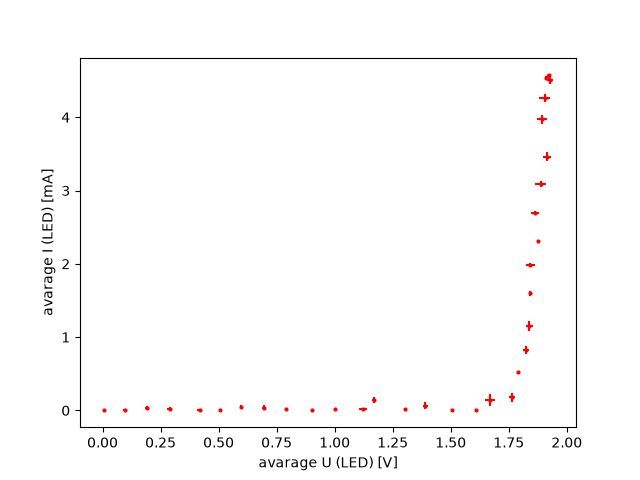
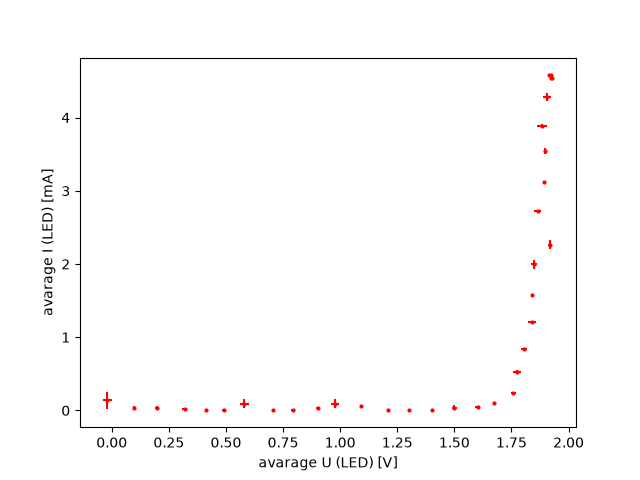
Updated version after feedback (09.11)(13:44)

diff --git a/diode_experiment_4.py b/diode_experiment_4.py
@@ -1,46 +1,23 @@
-
 import math
+
+import numpy as np
 
 from arduino_device import ArduinoVISADevice
 
 
-class DiodeExperiment: 
+class DiodeExperiment:
     def __init__(self):
         self.device = ArduinoVISADevice(port="ASRL/dev/cu.usbmodem14101::INSTR")
 
-    def statistics(self, list):
-        N = len(list)
-        x_oud = 0
-
-        for x in list:
-            total = x + x_oud
-            x_oud = total
-
-        mean_x = total / N
-
-        _oud = 0
-        # numpy std
-        for y in list:
-            _ = (y - mean_x) ** 2
-            total_ = _ + _oud
-            _oud = total_
-
-        rho = math.sqrt(total_ / (N - 1))
-
-        return mean_x, rho
-
-
     def scan(self, i):
 
-        self.device.set_output_voltage(i / 10)  # we are setting a certan V
+        self.device.set_output_voltage(i)  # we are setting a certan V
 
         U_1 = self.device.get_input_voltage(channel=1)  # we determine U in channel 1
         U_2 = self.device.get_input_voltage(channel=2)  # we determine U in channel 2
 
         U_LED = U_1 - U_2
-        I_LED = (
-            U_2 / 220
-        ) * 1000  # with resistance of 220 Ohm, and current is low, so multiply by 1000
+        I_LED = (U_2 / 220) * 1000  # with resistance of 220 Ohm, and current is low, so multiply by 1000
 
         return U_LED, I_LED
 
@@ -49,18 +26,18 @@ class DiodeExperiment:
     def errors(self, N_repeat):
         list_all_U_ = []
         list_all_I_ = []
-        
-        for j in range(0, 34, 1):  # voltage changes from 0 to maximum value
+
+        for j in np.arange(0, 3.3, 0.1):  # voltage changes from 0 to maximum value
             results_U = []
             results_I = []
 
             for m in range(N_repeat):  # each step will be repeated -N_repeat- times
                 U_LED_, I_LED_ = self.scan(j)
-                results_U.append(U_LED_)
-                results_I.append(I_LED_)
+                results_U.append(U_LED_)  # list with different U LED, vary between different interations
+                results_I.append(I_LED_)  # list with different I LED, vary between different interations
 
-            list_all_U_.append(results_U)  # list with all results of voltage LED for each step
-            list_all_I_.append(results_I)
+            list_all_U_.append(results_U)  # list containing lists of different U (LED) pet U we try
+            list_all_I_.append(results_I)  # list containing lists of different I (LED) pet U we try
 
         f_U = []
         f_I = []
@@ -68,15 +45,17 @@ class DiodeExperiment:
         list_mean_U = []
         list_mean_I = []
 
-        for n in range(0, 34, 1):
-            U_mean, U_f = self.statistics(list_all_U_[n])
+        for n in range(0, 34, 1):  # for each voltage we try. We try 34 different voltages (between 0 and 3.3)
+            U_mean = np.mean(list_all_U_[n])
+            U_f = np.std(list_all_U_[n])
             list_mean_U.append(U_mean)
             f_U.append(U_f)
 
-            I_mean, I_f = self.statistics(list_all_I_[n])
+            I_mean = np.mean(list_all_I_[n])
+            I_f = np.std(list_all_I_[n])
+
             list_mean_I.append(I_mean)
             f_I.append(I_f)
-
 
         error_U = []
         error_I = []
@@ -89,7 +68,3 @@ class DiodeExperiment:
             error_I.append(div_s_I)
 
         return list_mean_U, list_mean_I, error_U, error_I
-
-
-
-

diff --git a/arduino_device.py b/arduino_device.py
@@ -54,6 +54,7 @@ class ArduinoVISADevice:
         voltage = float(raw_) * (3.3 / 1024)
         return voltage
 
+
 #        return the voltage of the input channel (in Volt)
 
 
